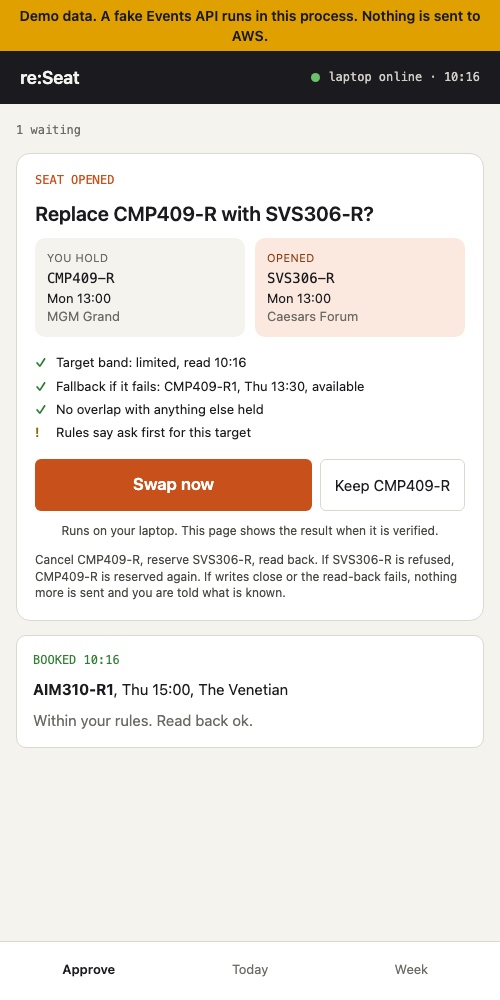
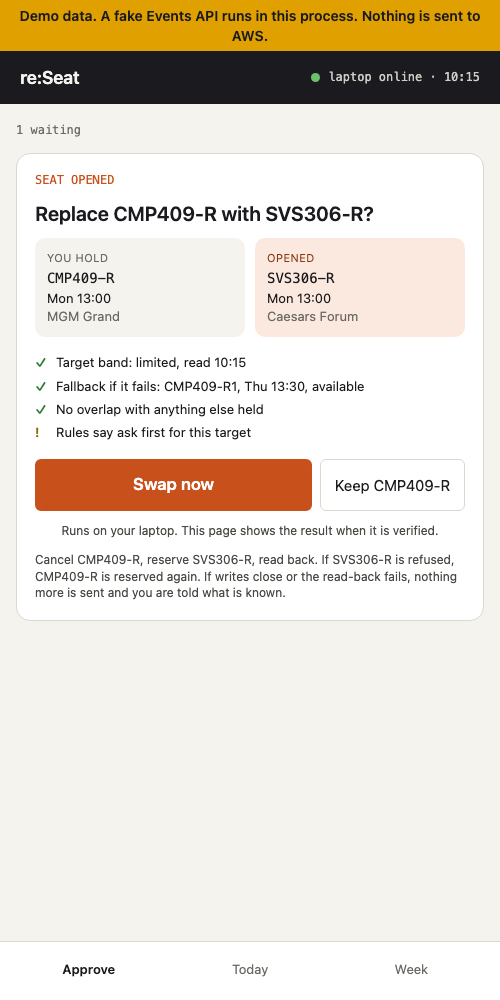
Add a click-through demo, a demo GIF and a release workflow
- Dashboard counts from the journal: seats booked, swaps verified, and
  seats restored (the held seat re-reserved, or a fallback booked).
- Dark mode from the system setting. Accent darkened so white text on
  it passes contrast in both themes.
- demo/site.py renders the demo views to static HTML, including the
  dashboard after a real swap on the fake API. pages.yml publishes it
  to GitHub Pages on every push to main.
- docs/demo.gif, captured from a live reseat serve --demo run, at the
  top of the README with a link to the click-through demo.
- release.yml publishes to PyPI on a version tag through trusted
  publishing, after checking the tag matches the package version.
- Workflows run with read-only tokens except the jobs that deploy.
- Recording shot list in demo/README.md.

Changed region(s): [[0.06, 0.651, 0.57, 0.744]]

diff --git a/src/reseat/static/app.css b/src/reseat/static/app.css
@@ -1,11 +1,20 @@
 /* re:Seat web app. One file, system fonts, no network, so it works offline in a hotel. */
 :root {
   --ground: #f4f3ee; --ink: #1b1b1f; --ink-2: #4a4944; --muted: #6b6a64; --line: #dad8cf; --line-2: #eceae3;
-  --surface: #ffffff; --accent: #c8501a; --accent-soft: #fbe9df; --accent-ink: #8a3a12;
+  --surface: #ffffff; --accent: #b8461a; --accent-soft: #fbe9df; --accent-ink: #8a3a12;
   --wanted: #2458a8; --leave: #e0a100; --good: #2e7d32; --warn: #8a6d00; --bad: #8a1c1c;
-  --bar: #1b1b1f; --bar-ink: #f4f3ee; --bar-muted: #cfcdc4;
+  --bar: #1b1b1f; --bar-ink: #f4f3ee; --bar-muted: #cfcdc4; --held: #1b1b1f; --badge: #8a1c1c; --on-leave: #1b1b1f;
   --sans: -apple-system, BlinkMacSystemFont, "Segoe UI", system-ui, Roboto, sans-serif;
   --mono: ui-monospace, "SF Mono", Menlo, Consolas, "Liberation Mono", monospace;
+}
+@media (prefers-color-scheme: dark) {
+  :root {
+    color-scheme: dark;
+    --ground: #15161a; --ink: #ecebe6; --ink-2: #c3c1b9; --muted: #9a988f; --line: #33343a; --line-2: #26272c;
+    --surface: #1d1e23; --accent: #b9551f; --accent-soft: #3a2418; --accent-ink: #f0a982;
+    --wanted: #7fa8ea; --leave: #e3ac1c; --good: #6fc173; --warn: #e2c25a; --bad: #ef7d7d;
+    --bar: #0d0e11; --bar-ink: #ecebe6; --bar-muted: #a9a79f; --held: #3b3d46; --badge: #a8322f; --on-leave: #15161a;
+  }
 }
 * { box-sizing: border-box; }
 html, body { margin: 0; }
@@ -28,7 +37,7 @@ p { margin: 0; }
 .sr { position: absolute; width: 1px; height: 1px; overflow: hidden; clip: rect(0 0 0 0); white-space: nowrap; }
 .empty { color: var(--muted); }
 
-.demo { background: var(--leave); color: var(--ink); font-weight: 600; text-align: center; padding: 6px 16px; }
+.demo { background: var(--leave); color: var(--on-leave); font-weight: 600; text-align: center; padding: 6px 16px; }
 
 /* status bar */
 .top { display: flex; align-items: center; gap: 12px 20px; padding: 14px 28px; background: var(--bar); color: var(--bar-ink); flex-wrap: wrap; }
@@ -66,12 +75,17 @@ p { margin: 0; }
 .journal .o-failed, .journal .o-error, .journal .o-closed { color: var(--bad); }
 .journal .o-proposed, .journal .o-checked, .journal .o-rolled_back { color: var(--accent); }
 
+.kept { background: var(--surface); border: 1px solid var(--line); border-radius: 10px; padding: 12px 14px; display: flex; flex-direction: column; gap: 6px; }
+.kept-row { display: grid; grid-template-columns: repeat(3, minmax(0, 1fr)); gap: 8px; }
+.kept-row b { display: block; font-size: 22px; font-variant-numeric: tabular-nums; }
+.kept-row span { font-size: 12px; color: var(--muted); }
+
 /* week grid */
 .weekhead { display: flex; align-items: baseline; gap: 16px; flex-wrap: wrap; }
 .legend { display: flex; gap: 14px; font-size: 12px; color: var(--ink-2); flex-wrap: wrap; }
 .lg { display: flex; align-items: center; gap: 6px; }
 .lg i { width: 12px; height: 12px; border-radius: 3px; display: inline-block; }
-.lg-held i { background: var(--ink); }
+.lg-held i { background: var(--held); }
 .lg-wanted i { border: 2px dashed var(--wanted); }
 .lg-proposed i { background: var(--accent); }
 .lg-leave i { height: 4px; background: var(--leave); border-radius: 2px; }
@@ -86,12 +100,12 @@ p { margin: 0; }
 .blk { position: absolute; border-radius: 6px; padding: 4px 7px; overflow: hidden; border: 2px solid transparent; display: flex; flex-direction: column; min-height: 18px; }
 .blk b { font-family: var(--mono); font-weight: 500; }
 .blk span { opacity: .85; }
-.b-held { background: var(--ink); color: #fff; }
+.b-held { background: var(--held); color: #fff; }
 .b-held.pending { border-color: var(--accent); }
 .b-wanted { border: 2px dashed var(--wanted); color: var(--wanted); background: var(--surface); }
 .b-proposed { background: var(--accent); color: #fff; }
 .b-fallback { background: var(--line-2); color: var(--ink-2); }
-.badge { order: -1; align-self: flex-start; background: var(--bad); color: #fff; font-size: 10px; font-style: normal; padding: 1px 5px; border-radius: 3px; margin-bottom: 2px; white-space: nowrap; max-width: 100%; overflow: hidden; text-overflow: ellipsis; }
+.badge { order: -1; align-self: flex-start; background: var(--badge); color: #fff; font-size: 10px; font-style: normal; padding: 1px 5px; border-radius: 3px; margin-bottom: 2px; white-space: nowrap; max-width: 100%; overflow: hidden; text-overflow: ellipsis; }
 .leave { position: absolute; left: 0; right: 0; height: 6px; margin-top: -8px; background: var(--leave); border-radius: 3px; }
 
 /* phone views */
@@ -111,7 +125,7 @@ p { margin: 0; }
 .lbl { font-size: 11px; color: var(--muted); text-transform: uppercase; letter-spacing: .04em; }
 .side-opened .lbl { color: var(--accent-ink); }
 .pair .mono { font-size: 14px; font-weight: 500; margin-top: 4px; }
-.hero { background: var(--leave); color: var(--ink); border-radius: 14px; padding: 18px; display: flex; flex-direction: column; gap: 6px; }
+.hero { background: var(--leave); color: var(--on-leave); border-radius: 14px; padding: 18px; display: flex; flex-direction: column; gap: 6px; }
 .hero .big { font-size: 44px; font-weight: 600; line-height: 1; }
 .hero .small { font-size: 13px; }
 .row { display: flex; gap: 12px; align-items: baseline; }

diff --git a/demo/site.py b/demo/site.py
@@ -1,0 +1,94 @@
+"""Build the static click-through demo for GitHub Pages.
+
+    python demo/site.py _site
+
+Runs demo mode by hand, exactly as `reseat serve --demo` scripts it: a baseline
+sweep, a seat opens, a new sitting appears, a room moves. Then it saves the three
+views as plain HTML, approves the swap through the real swap code on the fake API,
+and saves the dashboard again. No server, no JavaScript, no sign-in. Every page
+says it is a snapshot of demo data.
+"""
+
+from __future__ import annotations
+
+import re
+import sys
+from importlib import resources
+from pathlib import Path
+
+from reseat import demo as D
+from reseat import pages
+
+NOTE = ('Static snapshot of demo data, from <code>reseat serve --demo</code>. Nothing here talks to AWS. '
+        'Swap now shows the result the real swap code produced. Run it live: '
+        '<code>pip install -e .</code> then <code>reseat serve --demo</code>.')
+EXTRA_CSS = """
+/* static snapshot only */
+.actions a { display: inline-flex; align-items: center; justify-content: center; min-height: 44px;
+  padding: 10px 14px; border-radius: 6px; text-decoration: none; font-weight: 600; }
+.actions a.primary { background: var(--accent); color: #fff; flex: 1 1 auto; }
+.actions a.secondary { border: 1px solid var(--line); background: var(--surface); color: var(--ink);
+  font-weight: 400; }
+.demo code { font-weight: 600; }
+.done { background: var(--surface); border: 1px solid var(--good); border-radius: 10px; padding: 12px 14px; }
+"""
+
+
+def staticize(html: str, now: float, done: str | None = None) -> str:
+    """Point links and assets at sibling files, drop the script, make the buttons links."""
+    html = html.replace('<script src="/static/app.js" defer></script>', "")
+    html = html.replace('href="/static/app.css"', 'href="app.css"')
+    html = html.replace('href="/approve"', 'href="approve.html"')
+    html = html.replace('href="/today"', 'href="today.html"')
+    html = html.replace('href="/"', 'href="index.html"')
+    html = re.sub(r'<button class="primary" data-approve="[^"]+">([^<]*)</button>',
+                  r'<a class="primary" href="after.html">\1</a>', html)
+    html = re.sub(r'<button data-skip="[^"]+">([^<]*)</button>',
+                  r'<a class="secondary" href="index.html">\1</a>', html)
+    html = re.sub(r'<b data-until="(\d+)">…</b>',
+                  lambda m: f"<b>{max(0, int(m.group(1)) - int(now))} s</b>", html)
+    banner = f'<div class="demo" role="status">{NOTE}</div>'
+    html = re.sub(r'<div class="demo" role="status">.*?</div>', banner, html, count=1, flags=re.S)
+    if done:
+        html = html.replace('<aside class="side">', f'<aside class="side"><p class="done">{done}</p>', 1)
+    return html
+
+
+def build(out: Path) -> list[str]:
+    d = D.Demo(port=0)
+    d.watcher.tick()
+    d.seat_opens()
+    d.watcher.tick()
+    d.new_sitting()
+    d.watcher.tick()
+    d.room_moves()
+    d.watcher.tick()
+    d.app.refresh()
+    out.mkdir(parents=True, exist_ok=True)
+    snap = d.app.snapshot()
+    now = snap["now"]
+    written = {
+        "index.html": pages.render_dashboard(snap, demo=True),
+        "approve.html": pages.render_approve(snap, demo=True),
+        "today.html": pages.render_today(snap, demo=True),
+    }
+    [p] = d.watcher.pending()
+    res = d.watcher.approve(p.plan_id)
+    d.app.refresh()
+    got = d.store.get(D.EVENT, res.wanted_id)
+    done = pages.e(f"Swap now ran: {' → '.join(res.steps)}. Every step is in the journal below. "
+                   f"{got.abbreviation if got else 'The new session'} is held now.")
+    written["after.html"] = staticize(pages.render_dashboard(d.app.snapshot(), demo=True), now, done)
+    for name in ("index.html", "approve.html", "today.html"):
+        written[name] = staticize(written[name], now)
+    for name, html in written.items():
+        (out / name).write_text(html, encoding="utf-8")
+    css = resources.files("reseat").joinpath("static", "app.css").read_text(encoding="utf-8")
+    (out / "app.css").write_text(css + EXTRA_CSS, encoding="utf-8")
+    d.watcher.stop()
+    return sorted(written)
+
+
+if __name__ == "__main__":
+    target = Path(sys.argv[1] if len(sys.argv) > 1 else "_site")
+    print("wrote", ", ".join(build(target)), "to", target)

diff --git a/tests/test_web.py b/tests/test_web.py
@@ -418,3 +418,71 @@ def test_pages_use_the_render_time_clock_not_the_snapshot_time(demo):
         assert f'data-now="{later:.0f}"' in S.page(demo.app, "/").decode()
     finally:
         demo.app.clock = demo_now
+
+
+def test_dashboard_counts_what_was_kept_from_the_journal(served):
+    d, http = served
+    k = d.app.snapshot()["view"]["kept"]
+    assert (k["booked"], k["swapped"], k["restored"]) == (1, 0, 0) and k["since"] == "Mon 30 Nov"
+    plan = d.watcher.pending()[0].plan_id
+    assert http.post(f"/approve/{plan}", headers={"X-Reseat": "1"}).json()["state"] == "verified"
+    k = d.app.snapshot()["view"]["kept"]
+    assert (k["booked"], k["swapped"]) == (1, 1)                 # a swap's reserve is not a second booking
+    assert "seats booked" in http.get("/").text
+
+
+def test_static_site_builds_four_pages_with_no_script_and_a_verified_swap(tmp_path):
+    import runpy
+    from pathlib import Path
+    site = runpy.run_path(str(Path(__file__).resolve().parent.parent / "demo" / "site.py"), run_name="site")
+    names = site["build"](tmp_path)
+    assert names == ["after.html", "approve.html", "index.html", "today.html"]
+    for n in names:
+        html = (tmp_path / n).read_text(encoding="utf-8")
+        assert "<script" not in html and "/static/" not in html and "data-approve" not in html
+        assert "Static snapshot of demo data" in html and 'href="app.css"' in html
+    assert 'href="after.html">Swap now</a>' in (tmp_path / "index.html").read_text(encoding="utf-8")
+    after = (tmp_path / "after.html").read_text(encoding="utf-8")
+    assert "proposed → checked → cancelled → reserved → verified" in after and "swaps verified" in after
+    assert (tmp_path / "app.css").exists()
+
+
+def test_kept_counts_only_ids_the_read_back_showed_and_skips_failed_swaps():
+    d = D.Demo(port=0)
+    assert pages._kept(d.app) == {"booked": 0, "swapped": 0, "restored": 0, "since": None}
+    ev, j = d.app.event_id, d.store.journal
+    j(ev, "ReserveSessions", ["a"], {"status": 409}, "closed")                       # writes closed
+    j(ev, "ReserveSessions", ["b"], {"result": None, "error": "503; read-back failed: 503",
+                                     "readBack": None}, "error")                   # unknown, not booked
+    j(ev, "ReserveSessions", ["c", "d"], {"result": {}, "error": None, "readBack": {"reserved": ["c"]},
+                                          "disagreements": ["d"]}, "disagreement")  # only c read back
+    j(ev, "ReserveSessions", ["e", "f", "g"], {"result": {}, "readBack": {"reserved": ["e", "g", "x"]}},
+      "partial")                                                                   # x was not asked for
+    j(ev, "swap.failed", {"held": "h", "wanted": "w"}, {"fallback_held": None}, "state:failed")
+    j(ev, "swap.rolled_back", {"held": "h", "wanted": "w"}, {}, "state:rolled_back")
+    j(ev, "swap.verified", {"held": "h", "wanted": "w"}, {}, "state:verified")
+    k = pages._kept(d.app)
+    assert (k["booked"], k["swapped"], k["restored"]) == (3, 1, 1) and k["since"]
+    assert "3</b><span>seats booked" in pages._kept_html(k)
+    assert "nothing yet" in pages._kept_html(pages._kept(D.Demo(port=0).app))
+
+
+def test_static_site_has_no_absolute_or_external_links(tmp_path):
+    import re
+    import runpy
+    from pathlib import Path
+    site = runpy.run_path(str(Path(__file__).resolve().parent.parent / "demo" / "site.py"), run_name="site")
+    for n in site["build"](tmp_path):
+        html = (tmp_path / n).read_text(encoding="utf-8")
+        for url in re.findall(r'(?:href|src|action)="([^"]*)"', html):
+            assert not url.startswith(("/", "http:", "https:", "//")), (n, url)
+        assert "data-skip" not in html and "<form" not in html
+
+
+def test_a_failed_swap_that_booked_a_fallback_counts_as_restored():
+    d = D.Demo(port=0)
+    req = {"held": "a", "wanted": "b"}
+    d.store.journal(D.EVENT, "swap.failed", req, {"fallback_held": "c"}, "state:failed")
+    d.store.journal(D.EVENT, "swap.failed", req, {"fallback_held": None}, "state:failed")
+    k = pages._kept(d.app)
+    assert (k["booked"], k["swapped"], k["restored"]) == (0, 0, 1)

diff --git a/src/reseat/pages.py b/src/reseat/pages.py
@@ -99,6 +99,7 @@ def build(app: App, now: float) -> dict[str, Any]:
         "week": _week(app, held, wanted, pending, now),
         "today": _today(app, held, wanted, now),
         "bookings": _bookings(app, now),
+        "kept": _kept(app),
     }
 
 
@@ -269,6 +270,27 @@ def _what(app: App, req: Any) -> str:
     if isinstance(req, list):
         return ", ".join(_code(app, s) for s in req[:4] if isinstance(s, str))
     return ""
+
+
+def _kept(app: App) -> dict[str, Any]:
+    """What re:Seat has done for the attendee, counted from the journal: seats booked and read
+    back, swaps verified, and seats restored after a swap's target was refused (the held seat
+    re-reserved, or a fallback sitting booked in its place)."""
+    booked = swapped = restored = 0
+    first = None
+    for r in app.store.journal_entries(app.event_id, 100_000):
+        if r["op"] == "ReserveSessions":
+            booked += len(_booked(r))
+        elif r["op"] == "swap.verified":
+            swapped += 1
+        elif r["op"] == "swap.rolled_back" or (
+                r["op"] == "swap.failed" and (_json(r["response"]) or {}).get("fallback_held")):
+            restored += 1                       # the held seat came back, or a fallback sitting was booked
+        else:
+            continue
+        first = r["ts"]                                  # entries come newest first
+    since = local(first).strftime("%a %d %b") if first else None
+    return {"booked": booked, "swapped": swapped, "restored": restored, "since": since}
 
 
 def _bookings(app: App, now: float) -> list[dict[str, Any]]:
@@ -559,8 +581,8 @@ def render_dashboard(snap: dict[str, Any], demo: bool = False) -> str:
     plans = [c["plan_id"] for c in cards]
     out = [_head("re:Seat", "week", demo, plans, snap["now"], v["status"]["last_sweep"]),
            _status_line(v["status"]),
-           '<div class="layout"><aside class="side">',
-           f'<h2>Needs your approval <span class="count">{len(cards)}</span></h2>']
+           '<div class="layout"><aside class="side">', _kept_html(v.get("kept"))
+           + f'<h2>Needs your approval <span class="count">{len(cards)}</span></h2>']
     for c in cards:
         out.append(f'<article class="card"><div class="kind">{e(c["kind"]).upper()} · {e(c["at"])}</div>'
                    f'<h3>{e(c["title"])}</h3><p>You hold <strong>{e(c["held"]["code"])}</strong>, '
@@ -583,6 +605,17 @@ def render_dashboard(snap: dict[str, Any], demo: bool = False) -> str:
             for j in v.get("log", [])] or ["<li>The journal is empty.</li>"]
     out.append("</ul></section></main></div>" + _nav("week") + "</body></html>")
     return "".join(out)
+
+
+def _kept_html(k: dict[str, Any] | None) -> str:
+    if not k:
+        return ""
+    since = f"since {e(k['since'])}" if k["since"] else "nothing yet"
+    cells = "".join(f'<div><b>{n}</b><span>{label}</span></div>' for n, label in (
+        (k["booked"], "seats booked"), (k["swapped"], "swaps verified"), (k["restored"], "seats restored")))
+    return (f'<section class="kept" aria-label="What re:Seat has done"><div class="kept-row">{cells}</div>'
+            f'<p class="fine">From the journal, {since}. Every one read back from your schedule.</p>'
+            "</section>")
 
 
 def _week_html(w: dict[str, Any]) -> str:

diff --git a/README.md b/README.md
@@ -2,6 +2,10 @@
 
 re:Seat keeps your AWS re:Invent seats after the plan is made. It watches the catalog all day, books a seat the moment one frees up or a new repeat sitting appears, swaps a held seat for a better one without losing either, and tells you when to leave and whether to queue. It runs on your laptop against the [AWS Events API](https://docs.aws.amazon.com/events/latest/devguide/what-is-events-api.html), and your phone is the remote.
 
+![re:Seat demo mode: a seat opens and a swap waits for approval, a new sitting is booked, a room moves, the swap is verified](https://raw.githubusercontent.com/hsiddhu2/reseat/main/docs/demo.gif)
+
+**Try it without installing anything:** [the click-through demo](https://hsiddhu2.github.io/reseat/) is the web app on demo data, built from this code. **Run it live in two minutes:** `pip install -e .` then `reseat serve --demo`. See [Open the dashboard](#open-the-dashboard).
+
 ## The problem
 
 Planners help you pick sessions. Attendees say the trouble starts after that:
@@ -27,13 +31,13 @@ With your own seats, `reseat serve` runs the watcher and the same web app at `ht
 
 | Dashboard, laptop width | Approve, phone width | Today, phone width |
 |---|---|---|
-| ![Dashboard: status line, a swap waiting for approval, the week grid, last changes and the journal](docs/screenshots/dashboard.png) | ![Approve: the held and opened sessions side by side, the checks and one button](docs/screenshots/approve.png) | ![Today: leave-in countdown, next sessions, wanted sessions with queue-or-go advice](docs/screenshots/today.png) |
+| ![Dashboard: status line, a swap waiting for approval, the week grid, last changes and the journal](https://raw.githubusercontent.com/hsiddhu2/reseat/main/docs/screenshots/dashboard.png) | ![Approve: the held and opened sessions side by side, the checks and one button](https://raw.githubusercontent.com/hsiddhu2/reseat/main/docs/screenshots/approve.png) | ![Today: leave-in countdown, next sessions, wanted sessions with queue-or-go advice](https://raw.githubusercontent.com/hsiddhu2/reseat/main/docs/screenshots/today.png) |
 
-- **Dashboard** (`/`). Watching or paused, the last sweep and its session count, the next sweep, held and wanted counts, and ListSessions quota left. Swaps that need you, each with its checks from the last sweep: the target's band, a fallback, no overlap, and whether the rules allow it or ask first. A week grid of held, wanted, proposed and fallback sessions with leave-now strips, a badge where the walk is longer than the gap, and a note on a held session that changed room. Last changes and the journal.
+- **Dashboard** (`/`). What re:Seat has done for you, counted from the journal: seats booked, swaps verified, seats restored. Watching or paused, the last sweep and its session count, the next sweep, held and wanted counts, and ListSessions quota left. Swaps that need you, each with its checks from the last sweep: the target's band, a fallback, no overlap, and whether the rules allow it or ask first. A week grid of held, wanted, proposed and fallback sessions with leave-now strips, a badge where the walk is longer than the gap, and a note on a held session that changed room. Last changes and the journal.
 - **Approve** (`/approve`). One proposal at a time: what you hold and what opened, side by side, the checks, and one button. Bookings within your rules happen at once and show here and under Last changes.
 - **Today** (`/today`). How long until you leave for the next held session, with the walk and when the doors close. The rest of today, your own personal time included. Wanted sessions you do not hold, with queue-or-go advice, its basis, and any clash with a held session's walk.
 
-Approve and Dismiss send a plan id and nothing else. Pressing Swap now runs the same checked swap as `reseat swap`, with fresh reads. The CLI and the MCP server use the same engine.
+It follows your system's light or dark setting. Approve and Dismiss send a plan id and nothing else. Pressing Swap now runs the same checked swap as `reseat swap`, with fresh reads. The CLI and the MCP server use the same engine.
 
 ## Install in three commands
 
@@ -109,7 +113,7 @@ re:Seat's sync read the empty answer as every session removed and emptied its lo
 
 ## How it is tested
 
-Every write path runs against an in-process fake of the API that produces each documented failure: partial bulk results, `sessionFull`, `scheduleConflict`, 409, 429 with `Retry-After`, 5xx, dropped connections and expired sign-in. A fault storm runs the whole flow for an hour on the real 2026 catalog with 30 percent of reserves full, a 429 every minute, a 503, fifteen minutes of 409, and the real quotas enforced, and checks that no quota is exceeded, no talk is held twice and every write is read back. Details in [How re:Seat works](docs/architecture.md).
+Every write path runs against an in-process fake of the API that produces each documented failure: partial bulk results, `sessionFull`, `scheduleConflict`, 409, 429 with `Retry-After`, 5xx, dropped connections and expired sign-in. A fault storm runs the whole flow for an hour on the real 2026 catalog with 30 percent of reserves full, a 429 every minute, a 503, fifteen minutes of 409, and the real quotas enforced, and checks that no quota is exceeded, no talk is held twice and every write is read back. CI runs the tests on Linux, macOS and Windows, on Python 3.11 and 3.13. Details in [How re:Seat works](docs/architecture.md).
 
 ## Reference
 
@@ -236,6 +240,7 @@ A fault storm runs the whole flow for an hour on the real catalog: 30 percent of
 - [AWS Events API facts](docs/api-facts.md): the API behaviour re:Seat relies on, with sources.
 - [Live proof](docs/proof/): checks run against the real API.
 - [Demo scripts](demo/): recordable demos against the fake API. `reseat serve --demo` is the web app version.
+- [Click-through demo](https://hsiddhu2.github.io/reseat/): the web app on demo data, rebuilt from `demo/site.py` on every push to main.
 
 ## License
 

diff --git a/docs/architecture.md b/docs/architecture.md
@@ -79,6 +79,7 @@ Full detail, with sources, is in [api-facts.md](api-facts.md).
 - The token never leaves the laptop, because the API only allows sign-in on the attendee's own machine. So the laptop runs the watcher and serves a local web app that the laptop's browser and the phone open, the phone over Tailscale.
 - Three views, rendered on the server from the store, the journal, the rules, the guard and the watcher. The dashboard (`/`): watch status, the last sweep and its session count, the next sweep, held and wanted counts, ListSessions quota left, swaps waiting for approval with their checks from the last sweep and the swap's sequence, a week grid (held, wanted, proposed, fallback, leave-now strips, walk-over-gap badges, moved notes), the last changes and the journal. Approve (`/approve`): one proposal at a time, both sides and the checks. Today (`/today`): the leave-in countdown with the walk and the doors-close time, the rest of the day with the attendee's own personal time, and wanted sessions with queue-or-go advice and clashes.
 - Bookings within the rules happen at once, so only swaps wait for approval. Swap now runs `swap.py`, which reads both sessions fresh again before any cancel.
+- The dashboard also counts, from the journal, the seats booked, swaps verified and seats restored. The page follows the system's light or dark setting.
 - One CSS file and one JavaScript file served by `serve.py`. System fonts, no framework, no CDN, no build step. The script polls `/api/state` every 10 seconds and reloads when a proposal or a sweep changes.
 - `reseat serve` listens on `127.0.0.1:8490` by default. Binding to any other address needs `serve_secret` in the rules file, or it refuses to start. It never binds every interface: `0.0.0.0` is refused. The phone opens a one-time link, printed on the laptop, that sets a cookie and redirects to a clean URL. The link carries a single-use code, never the secret. To sign in again, the phone posts the secret in a form, rate limited.
 - Writes need the cookie and an `X-Reseat` header, which a cross-site form cannot send. Without a secret on loopback, the Host header must be the loopback address. Not a security product: it stops a neighbour on hotel Wi-Fi from approving swaps.
@@ -87,7 +88,7 @@ Full detail, with sources, is in [api-facts.md](api-facts.md).
 - On site the laptop checks the day's held and wanted sessions with GetSession every 20 seconds, at most 40 of them, inside the 120 per minute quota. A freed seat is booked the moment it shows.
 - One thread owns the API client and the local store. The web server only reads a snapshot it builds and hands approvals to it. Stopping the server lets a swap in progress finish first.
 - A sign-in lasts 7 days. Sign-ins live only in the running process, so a restart signs every device out. The page is plain HTTP: use it over Tailscale.
-- Demo mode, `reseat serve --demo`: the same server, watcher, router and swap on FakeEventsApi with a week of real sessions from the 1 October catalog and a scripted timeline (a seat opens, a new sitting appears, a room moves). The store is in memory. It never reads the keychain or `~/.reseat`, and every page says "Demo data".
+- Demo mode, `reseat serve --demo`: the same server, watcher, router and swap on FakeEventsApi with a week of real sessions from the 1 October catalog and a scripted timeline (a seat opens, a new sitting appears, a room moves). The store is in memory. It never reads the keychain or `~/.reseat`, and every page says "Demo data". `demo/site.py` renders the same views to static HTML, including the dashboard after a real swap on the fake, for the click-through demo on GitHub Pages.
 - Designed for a laptop left in the hotel room, plugged in and awake, reached from the phone over Tailscale. See "Running it all week" in the README.
 
 **Interfaces**

diff --git a/demo/README.md b/demo/README.md
@@ -16,6 +16,14 @@ Run from the repo root after `pip install -e .`:
 
 ## Recording
 
+- **The web app, about 2 minutes.** Set the browser to 1440 by 900 and close other tabs. Start `reseat serve --demo`, then open `http://127.0.0.1:8491/` at once, since the script starts with the command. Shot list:
+  1. 0:00 to 0:20. The week: held sessions, the yellow leave-now strips, the status line saying it watches in this process.
+  2. About 0:30. The swap card appears. Read the four checks and the sequence line under the buttons.
+  3. About 1:00. Last changes shows the new sitting booked and read back. The counts panel goes to 1 seat booked.
+  4. About 1:30. CMP303 on Wednesday says it moved room.
+  5. Press Swap now. The result line says verified and what is held now. Scroll to the journal: proposed, checked, cancel, reserve, verified.
+  6. Narrow the window to phone width, or open `/today`: the leave countdown, the next sessions, the personal dinner, the wanted session and its clash line.
+
 - **Terminal.** Use [asciinema](https://asciinema.org) (`asciinema rec book.cast -c "python demo/book.py"`), or a screen recording of a terminal at least 120 columns wide so the tables do not wrap.
 - **Phone page.** On the laptop, run `demo/phone.py` with the laptop's Tailscale address. It refuses `0.0.0.0`, so the demo never listens on hotel or home Wi-Fi. It uses port 8491, so it does not sign the phone out of a real `reseat serve` on 8490. On the phone, open the printed link over Tailscale before you start recording: a used link is harmless, an unused one works for an hour. Then start the phone's screen recording and tap Approve. The swap result shows on the page within a second.
 - **Before publishing a recording,** check it against the redaction rules in [docs/proof/README.md](../docs/proof/README.md). In particular, blur the one-time link and crop the phone's address bar and status bar. The demo data is not personal, but the link, host name and Tailscale address are.

diff --git a/docs/article.md b/docs/article.md
@@ -41,7 +41,7 @@ The Events API is clean and well documented. Four things it does not do shape ev
 
 **Bands as signals.** A move from `unavailable` to an open band is a freed seat. A session that was not there in the last sweep, under a code you want, is a new repeat. re:Seat books either the moment it sees it, inside the per-minute quota, and reads the result back.
 
-**One web app, three views.** `reseat serve` runs the watcher and a local web app. The dashboard shows the watch status, any swap that needs you with its checks, the week as a grid, the last changes and the journal. At phone width, Approve shows one proposal at a time and Today shows when to leave. `reseat serve --demo` runs it on a fake API with a scripted week, so anyone can try it in two minutes without a sign-in.
+**One web app, three views.** `reseat serve` runs the watcher and a local web app. The dashboard shows the watch status, any swap that needs you with its checks, the week as a grid, the last changes and the journal. At phone width, Approve shows one proposal at a time and Today shows when to leave. `reseat serve --demo` runs it on a fake API with a scripted week, so anyone can try it in two minutes without a sign-in. A [click-through version](https://hsiddhu2.github.io/reseat/) needs no install at all.
 
 **The laptop is the agent, the phone is the remote.** The token never leaves the laptop. re:Seat serves a small page that your phone opens over Tailscale: today's seats, a leave-now countdown, whether to queue, and Approve or Skip for a proposed swap. Approve takes a plan id that expires after 10 minutes and works once. No endpoint takes a session id.
 
@@ -113,3 +113,4 @@ The storm found two bugs. The watcher proposed swaps that could never run, and i
 - API facts it relies on: [docs/api-facts.md](api-facts.md)
 - Live proof: [docs/proof](proof/)
 - Demos: [demo](../demo/)
+- Click-through demo: [hsiddhu2.github.io/reseat](https://hsiddhu2.github.io/reseat/)
